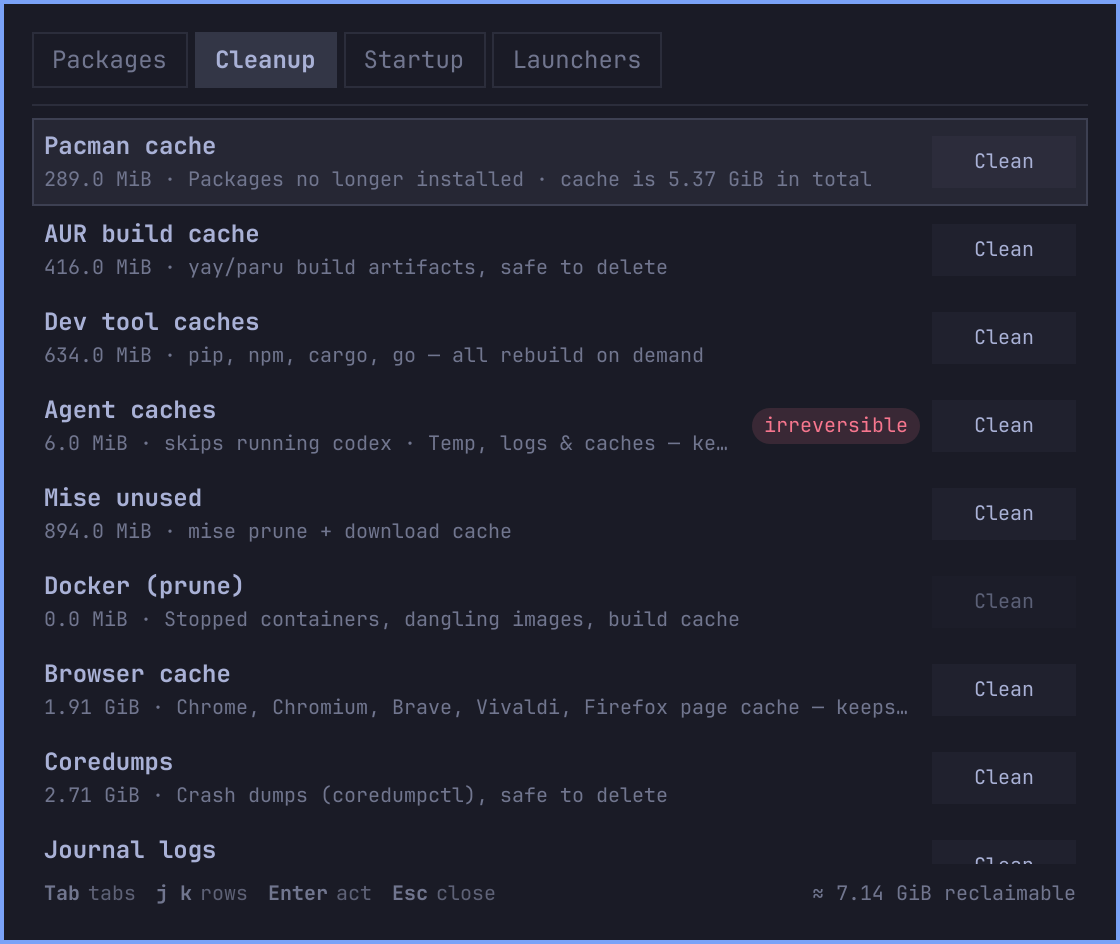
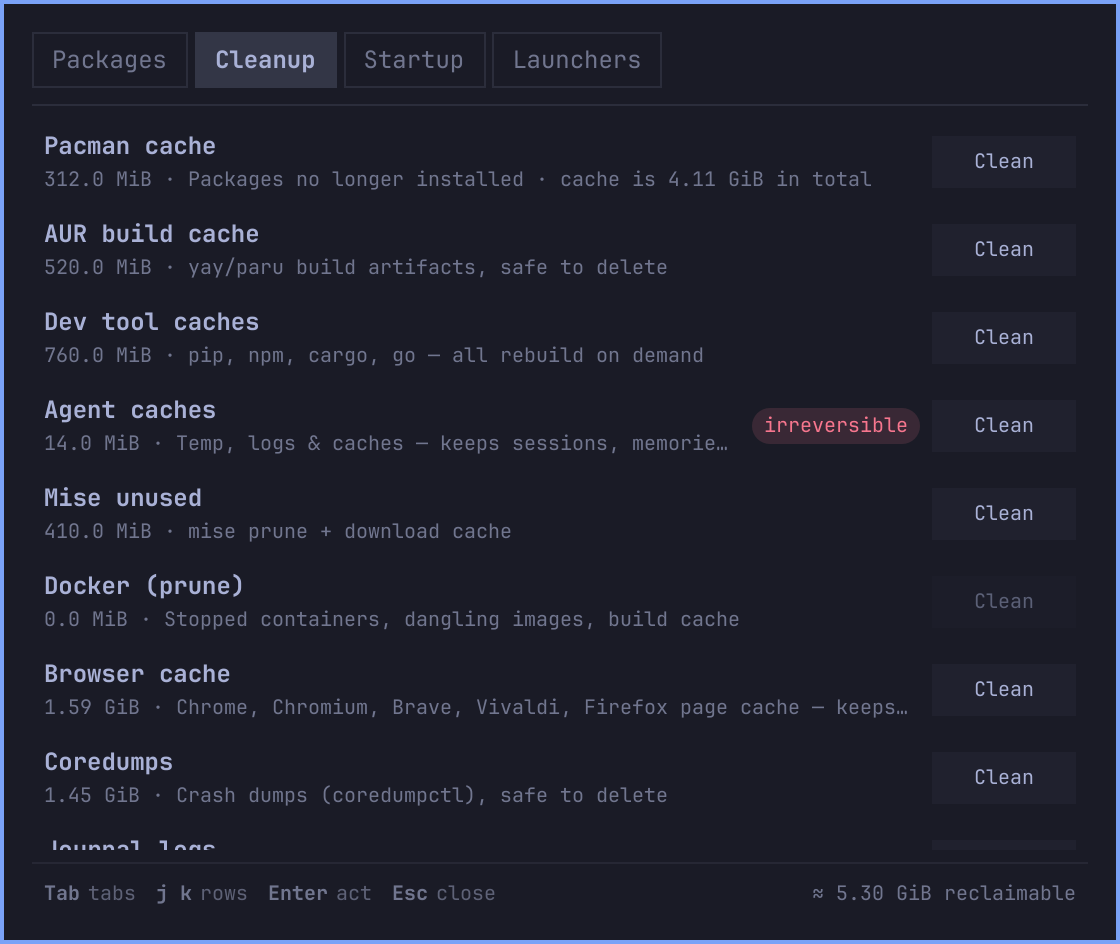
marketplace: previews from an offscreen fake backend (tools/render-previews.sh), CI workflow, README notes

diff --git a/tests/preview/KeyboardPanel.qml b/tests/preview/KeyboardPanel.qml
@@ -1,0 +1,48 @@
+// Preview stub for tools/render-previews.sh: the card of Omarchy's
+// Ui/KeyboardPanel.qml drawn in a plain Item, since the real one is a
+// layer-shell window that cannot map offscreen.
+import QtQuick
+import qs.Commons
+import qs.Commons as Commons
+
+Item {
+  id: root
+  property Item anchorItem: null
+  property QtObject bar: null
+  property var owner: null
+  property int margin: Style.gapsOut
+  property int padding: Style.spacing.popupPadding
+  property int contentWidth: Style.space(280)
+  property int contentHeight: Style.space(200)
+  property var borderSpec: Border.surfaceSpec("popups", "border", Commons.Color.popups.border, Math.max(1, Style.space(2)))
+  property bool centerOnBar: false
+  property bool open: false
+  property int gap: Style.gapsOut
+  property bool popoutSwitching: false
+  property bool popoutSwitchClosing: false
+  property Item focusTarget: null
+  readonly property Item card: card
+  default property alias contentItem: contentHolder.children
+  readonly property real verticalContentInset: padding * 2 + Border.top(borderSpec) + Border.bottom(borderSpec)
+  function close() { open = false }
+  function fittedContentWidth(w, cap) { return Math.round(cap > 0 ? Math.min(w, cap) : w) }
+  function fittedContentHeight(h, cap) { var d = Math.max(verticalContentInset, (Number(h) || 0) + verticalContentInset); return Math.round(cap > 0 ? Math.min(d, cap) : d) }
+  function cappedContentHeight(h) { return Math.round(h) }
+  width: contentWidth; height: contentHeight
+  BorderSurface {
+    id: card
+    width: root.contentWidth; height: root.contentHeight
+    color: Commons.Color.popups.background
+    borderSpec: root.borderSpec
+    padding: root.padding
+    radius: Style.cornerRadius
+    Item {
+      id: contentHolder
+      anchors.fill: parent
+      anchors.topMargin: card.contentTopInset
+      anchors.rightMargin: card.contentRightInset
+      anchors.bottomMargin: card.contentBottomInset
+      anchors.leftMargin: card.contentLeftInset
+    }
+  }
+}

diff --git a/tests/preview/shell.qml b/tests/preview/shell.qml
@@ -1,0 +1,51 @@
+// Offscreen preview harness for tools/render-previews.sh: the real Panel.qml
+// with tests/preview/backend.sh standing in for scripts/backend.sh. Opens the
+// panel on PREVIEW_TAB, waits for the fake lists, saves the card to
+// PREVIEW_OUT and quits.
+import QtQuick
+import Quickshell
+import qs.Commons as Commons
+import "plugin" as P
+
+ShellRoot {
+  id: shell
+  property string tab: Quickshell.env("PREVIEW_TAB") || "cleanup"
+  property string out: Quickshell.env("PREVIEW_OUT") || ""
+
+  QtObject {
+    id: fakeBar
+    property color barForeground: Commons.Color.foreground
+    property color foreground: Commons.Color.foreground
+    property string fontFamily: Commons.Style.font.family
+    property bool vertical: false
+    property int barSize: 30
+    property bool urgent: false
+    property bool foregroundAnimationEnabled: false
+    property QtObject shell: QtObject { function serviceFor(n) { return null } }
+    function showTooltip() {}
+    function hideTooltip() {}
+  }
+
+  FloatingWindow {
+    implicitWidth: 900
+    implicitHeight: 900
+    color: "transparent"
+    P.Panel { id: panel; bar: fakeBar; anchors.fill: parent }
+  }
+
+  Timer {
+    interval: 1200; running: true
+    onTriggered: { panel.open(); panel.activeTab = shell.tab; grab.start() }
+  }
+  Timer {
+    id: grab; interval: 1500
+    onTriggered: {
+      var kp = panel.children.filter(function(c) { return c.card !== undefined })[0]
+      kp.card.grabToImage(function(r) {
+        r.saveToFile(shell.out)
+        console.log("saved", shell.out, kp.card.width, kp.card.height)
+        Qt.quit()
+      })
+    }
+  }
+}

diff --git a/README.md b/README.md
@@ -92,7 +92,18 @@ skipped with a note if not installed), the pure-JS tests for `Model.js`,
 
 The backend tests run against stubbed `pacman`, `expac`, `pkexec`,
 `paccache`, `systemctl`, `docker`, `mise` and `journalctl` in a temporary
-`HOME`; they never touch the real system.
+`HOME`; they never touch the real system. CI (`.github/workflows/ci.yml`)
+runs the same `tests/run.sh` on Ubuntu for every push and pull request.
+
+Previews (`preview.png`) are rendered offscreen, never from a real session:
+
+```bash
+tools/render-previews.sh          # needs qs and the Omarchy shell
+```
+
+It runs the real panel in Quickshell (`QT_QPA_PLATFORM=offscreen`) against
+`tests/preview/backend.sh`, a read-only fake backend with made-up packages and
+sizes, so no data from your machine ends up in the image.
 
 ## Shared UI
 
